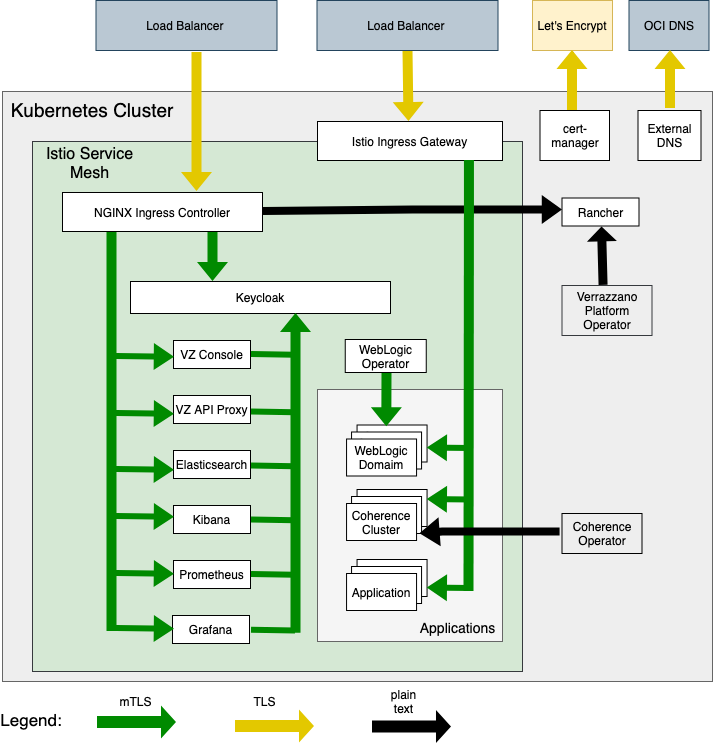
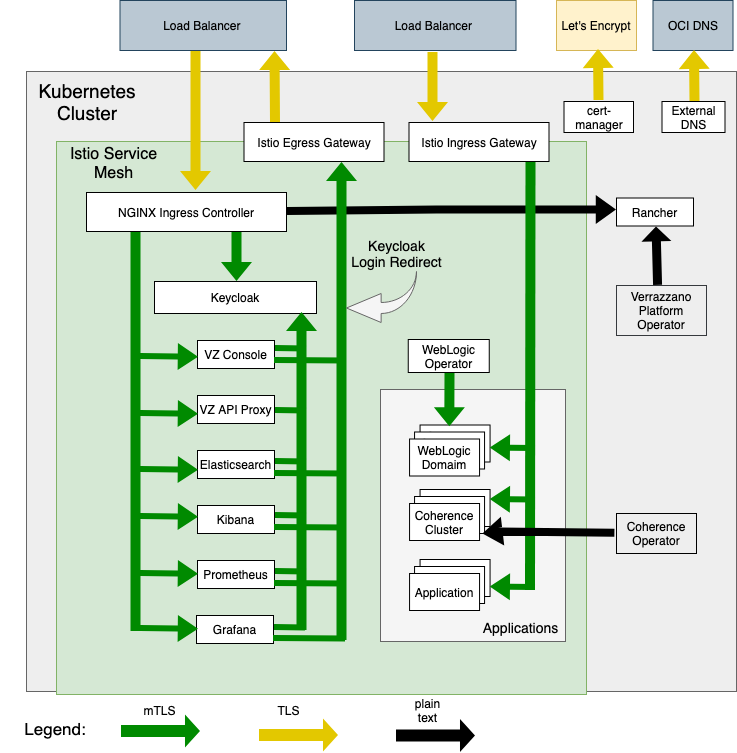
overview changes

diff --git a/content/en/docs/networking/_index.md b/content/en/docs/networking/_index.md
@@ -26,14 +26,18 @@ NGINX Ingress Controller, where TLS is terminated.  From there, the traffic is r
 to one of several destinations, all in the Istio mesh over mTLS. All of the traffic 
 in the mesh uses mTLS, with the following exceptions:
 - traffic from the NGINX Ingress Controller to Rancher
-- traffic from Verrazzano platform operator to Rancher
 - traffic from Coherence operator to the Coherence cluster
 - Prometheus traffic, which uses HTTP or HTTPS (not shown)
+
+***NOTE*** Several components inside the cluster send requests to Keycloak and will
+always go outside the cluster, back through the load balancer if a Keycloak redirect
+is needed.  If some cases, where no redirect is needed, they will send requests directly 
+to Keycloak within the cluster.
 
 ExternalDNS runs outside the mesh and uses TLS.  The same is true for
 cert-manager.
 
-Application enters a second OCI load balancer over TLS and is routed to the
+Application traffic enters a second OCI load balancer over TLS and is routed to the
 Istion Ingress Gateway, where TLS is terminated. From there, the traffic is routed 
 to one of several applications using mTLS, all in the mesh for this example.
 
